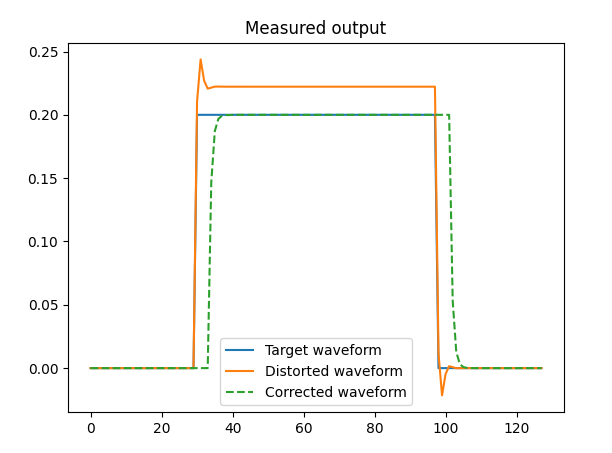
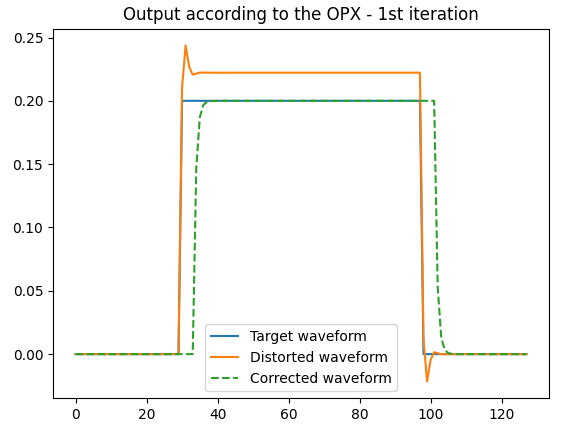
Nelder-Mead

Changed region(s): [[0.0, 0.0, 0.9262, 0.9817]]

diff --git a/examples/advanced-topics/IIR-FIR/nelder-mead-filter-optimization.py b/examples/advanced-topics/IIR-FIR/nelder-mead-filter-optimization.py
@@ -5,7 +5,7 @@ from qm.qua import *
 from qm.QuantumMachinesManager import SimulationConfig, QuantumMachinesManager, LoopbackInterface
 import numpy as np
 import scipy.signal as signal
-import scipy.optimize as opti
+import scipy.optimize as opti  # Requires SciPy 1.7.0 or above.
 
 qmm = QuantumMachinesManager()
 
@@ -124,69 +124,125 @@ def perform(params: List[float]):
         plt.plot(distorted_waveform)
         plt.plot(corrected_signal * np.sum(waveform) / np.sum(corrected_signal), "--")
         plt.legend(["Target waveform", "Distorted waveform", "Corrected waveform"])
-        if bCalc:
-            plt.title('Output according to the SciPy signal module')
-        else:
-            plt.title('Measured output')
         print(f"delay ~ {np.argmax(corr) - len(waveform) + 1}ns")
     return loss
 
 
+####################
+## Set Parameters ##
+####################
+n_coeff = 10
 M = 2  # number of feedback taps 0, 1, 2.
 eps = 1e-10
-param_number = 10
-initial_simplex = np.zeros([param_number + 1, param_number])
-initial_simplex[0, :] = np.array([0.01] * M + [0.8] + [0.01] * (param_number - 1 - M))
-for i in range(param_number):
+bCalc = True
+
+initial_simplex = np.zeros([n_coeff + 1, n_coeff])
+initial_simplex[0, :] = np.array([0.01] * M + [0.8] + [0.01] * (n_coeff - 1 - M))
+for i in range(n_coeff):
     initial_simplex[i + 1, :] = initial_simplex[0, :]
     initial_simplex[i + 1, i] = initial_simplex[0, i] + 0.2
 
-bCalc = False
-bPlot = False
-if bCalc:  # Since it is only a calculation, we can let it converge to stricter values.
-    fatol = 1e-7
-    xatol = 1e-3
-else:
-    fatol = 1e-5
-    xatol = 1e-2
-
+fatol_calc = 1e-7
+xatol_calc = 1e-3
+fatol = 1e-5
+xatol = 1e-2
 start_time = time.time()
-solver = opti.minimize(
+
+######################
+## Optimize Offline ##
+######################
+bPlot = False
+solver_calc = opti.minimize(
     perform,
     # Ignored when there is a simplex, but this is also a good starting point.
-    np.array([0] * M + [1] + [0] * (param_number - 1 - M)) + 0.2 * np.random.rand(param_number),
+    np.array([0] * M + [1] + [0] * (n_coeff - 1 - M)) + 0.2 * np.random.rand(n_coeff),
     method="Nelder-Mead",
     options={
         "initial_simplex": initial_simplex,
-        "fatol": fatol,
-        "xatol": xatol,
+        "fatol": fatol_calc,
+        "xatol": xatol_calc,
         "adaptive": False,
     },
     bounds=opti.Bounds([-2 + eps] * (M > 0) +  # First feedback tap is bounded at (-2,2)
                        [-1 + eps] * (M > 1) +  # Second feedback tap is bounded at (-1,1)
-                       [-1] * (param_number - (M > 0) - (M > 1)),  # feedforward taps are bounded at [-1,1]
+                       [-1] * (n_coeff - (M > 0) - (M > 1)),  # feedforward taps are bounded at [-1,1]
                        [2 - eps] * (M > 0) +  # First feedback tap is bounded at (-2,2)
                        [1 - eps] * (M > 1) +  # Second feedback tap is bounded at (-1,1)
-                       [1] * (param_number - (M > 0) - (M > 1)),  # feedforward taps are bounded at [-1,1]
+                       [1] * (n_coeff - (M > 0) - (M > 1)),  # feedforward taps are bounded at [-1,1]
                        ),
 )
 
-print(f'It took {int((time.time() - start_time)//60)}:{int((time.time() - start_time)%60)} minutes')
-bPlot = True
-bCalc = False
-perform(solver.x)
-
+###################
+## Plotting Part ##
+###################
 plt.figure()
 corrected_waveform = signal.lfilter(
-    np.array(solver.x[M:]), np.array(solver.x[:M]), distorted_waveform
+    np.array(solver_calc.x[M:]), np.array(solver_calc.x[:M]), distorted_waveform
 )
 norm = np.sum(waveform) / np.sum(corrected_waveform)
 corrected_waveform = signal.lfilter(
-    np.array(solver.x[M:]*norm), np.array(solver.x[:M]), distorted_waveform
+    np.array(solver_calc.x[M:]*norm), np.array(solver_calc.x[:M]), distorted_waveform
 )
 
 plt.plot(waveform)
 plt.plot(distorted_waveform)
 plt.plot(corrected_waveform, "--")
 plt.legend(["Target waveform", "Distorted waveform", "Corrected waveform"])
-plt.title('Output according to the SciPy signal module')
+plt.title('Output according to the SciPy signal module - 1st iteration')
+
+bPlot = True
+bCalc = False
+plt.figure()
+perform(solver_calc.x)
+plt.title('Output according to the OPX - 1st iteration')
+plt.show()
+
+#####################
+## Optimize Online ##
+#####################
+
+bPlot = False
+solver = opti.minimize(
+    perform,
+    solver_calc.x,
+    method="Nelder-Mead",
+    options={
+        "fatol": fatol,
+        "xatol": xatol,
+        "adaptive": False,
+    },
+    bounds=opti.Bounds([-2 + eps] * (M > 0) +  # First feedback tap is bounded at (-2,2)
+                       [-1 + eps] * (M > 1) +  # Second feedback tap is bounded at (-1,1)
+                       [-1] * (n_coeff - (M > 0) - (M > 1)),  # feedforward taps are bounded at [-1,1]
+                       [2 - eps] * (M > 0) +  # First feedback tap is bounded at (-2,2)
+                       [1 - eps] * (M > 1) +  # Second feedback tap is bounded at (-1,1)
+                       [1] * (n_coeff - (M > 0) - (M > 1)),  # feedforward taps are bounded at [-1,1]
+                       ),
+)
+
+###################
+## Plotting Part ##
+###################
+plt.figure()
+corrected_waveform = signal.lfilter(
+    np.array(solver_calc.x[M:]), np.array(solver_calc.x[:M]), distorted_waveform
+)
+norm = np.sum(waveform) / np.sum(corrected_waveform)
+corrected_waveform = signal.lfilter(
+    np.array(solver_calc.x[M:]*norm), np.array(solver_calc.x[:M]), distorted_waveform
+)
+
+plt.plot(waveform)
+plt.plot(distorted_waveform)
+plt.plot(corrected_waveform, "--")
+plt.legend(["Target waveform", "Distorted waveform", "Corrected waveform"])
+plt.title('Output according to the SciPy signal module - 2nd iteration')
+
+bPlot = True
+bCalc = False
+plt.figure()
+perform(solver_calc.x)
+plt.title('Output according to the OPX - 2nd iteration')
+
+#########
+print(f'Full optimization took {int((time.time() - start_time)//60)}:{int((time.time() - start_time)%60)} minutes')

diff --git a/examples/advanced-topics/IIR-FIR/blackbox-filter-optimization.py b/examples/advanced-topics/IIR-FIR/blackbox-filter-optimization.py
@@ -29,10 +29,7 @@ distorted_waveform = signal.lfilter(
     np.array([1]), np.array([0.95, -0.15, 0.1]), waveform
 )
 
-plt.plot(waveform)
-plt.plot(distorted_waveform)
-
-plt.figure()
+bPlot = False
 
 
 def cost(params: List[float]):
@@ -115,7 +112,7 @@ def cost(params: List[float]):
     job.result_handles.wait_for_all_values()
     corrected_signal = -job.result_handles.adc.fetch_all() / 4096
 
-    if True:
+    if bPlot:
         plt.plot(waveform)
         plt.plot(distorted_waveform)
         plt.plot(corrected_signal * np.sum(waveform) / np.sum(corrected_signal), "--")
@@ -139,6 +136,7 @@ iterations = 15
 
 es = cma.CMAEvolutionStrategy(np.random.rand(param_number), 1, {"bounds": [-1, 1]})
 es.optimize(cost, iterations=iterations)
-plt.figure()
+
+bPlot = True
 cost(es.result_pretty().xbest)
 plt.show()

diff --git a/examples/advanced-topics/IIR-FIR/readme.md b/examples/advanced-topics/IIR-FIR/readme.md
@@ -12,24 +12,47 @@ This folder contains various examples for applying filters on the outputs of the
 The filters can be used to compensate for distortions caused by electrical components.
 This example is similar to what is used in: https://arxiv.org/pdf/1907.04818.pdf
 
-In this example, we deliberately play a distorted waveform through the OPX output, which 
+In these examples, we deliberately play a distorted waveform through the OPX output, which 
 is looped back into the OPX input. We sample the raw ADC input, and then run an optimization
-algorithm to try to improve the output, using the built-in filters. This is different from the paper, in which they measured and optimized the response of 
+algorithm to try to improve the result, using the built-in filters.
+This is different from the paper, in which they measured and optimized the response of 
 the detuning of the qubit.
 Because using filters can change the delay between the pulses, we need to take that into account in some way.
-In this example we compute the correlation between the original waveform and the distorted waveform. The maximum of the
-normalized correlation should be equal to exactly 1 when they are identical, even if they are shifted. 
-Therefore, The loss function is defined as “1 - max(corr)”. However, there is a small caveat: using correlation can
-produce an identical waveform, with a different amplitude! So this has to be checked and corrected manually.
-This is being done in the plotting part
-
-Of course, the parameters and optimization strategy will have to be adapted in other scenarios.
-
-The result of one of the runs cal be seen in the figure below:
-![Optimization](blackbox-filter-optimization.png)
+In these examples we compute the correlation between the original waveform and the distorted waveform. 
+The maximum of the normalized correlation should be equal to exactly 1 when they are identical, even if they are shifted. 
+Therefore, The loss function is defined as “1 - max(corr)”. However, there is a small caveat: the correlation would
+also be one when the waveforms have a different amplitude! So this has to be checked and corrected manually.
+Simply multiplying the feedforward coefficients by the ratio of the amplitudes would correct this.
+In these examples, this is being done only for plotting the waveforms.
 
 Notice the added group delay caused by the filters, it is being calculated in the script by looking at the index of 
 the maximum of the correlation.
+
+### Example 1 - Optimization using Nelder-Mead
+This example requires SciPi 1.7.0 or above
+In this example, we use the Nelder-Mead optimization to find the filter coefficients.
+Assuming that the system response is linear, the optimization can be done using SciPy filter module.
+The real-life experimental procedure would be as follows:
+
+1. Run the experiment once to retrieve the system response.
+2. Run the optimization offline, comparing the system response with the target system response.
+3. Run the experiment again, the response should be much better.
+4. If it is still not good enough, then second order effects are not negligible.
+   Run the optimization algorithm again, this time directly on the OPX measurement.
+   
+These steps are being emulated in the following script: [nelder-mead-filter-optimization.py](nelder-mead-filter-optimization.py)
+Of course, because our simulator response is linear (and identical), then step 4 is redundant and there is no difference
+between the 1st and 2nd iterations.
+
+![Optimization](nelder-mead-filter-optimization.png)
+   
+### Example 2 - Optimization using CMA (Covariance Matrix Adaptation)
+This example uses the CMA toolbox to solve the problem.
+
+Of course, the parameters and optimization strategy will have to be adapted in other scenarios.
+
+The result of one of the runs can be seen in the figure below:
+![Optimization](blackbox-filter-optimization.png)
 
 Script: [blackbox-filter-optimization.py](blackbox-filter-optimization.py)
 
